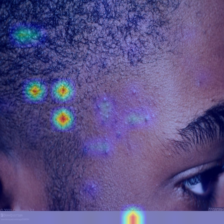
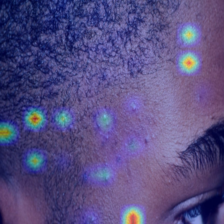
fix: crop watermark border from acne_1 sample image
Remove gray watermark area (© Galderma SA, DermQuest.com) from
bottom of acne_1.jpg for cleaner square thumbnail display.
Regenerate attention overlay and update cached explanation to
match the cropped image.

diff --git a/frontend/src/utils/sampleData.js b/frontend/src/utils/sampleData.js
@@ -36,7 +36,7 @@ export const conditionDescriptions = {
 
 // Pre-cached LLM explanations (auto-generated by scripts/generate_explanations.py)
 export const cachedExplanations = {
-  skin_disease_acne_1: 'The skin shows multiple raised bumps with reddish and yellowish discoloration distributed across the cheek and temple area, displaying the characteristic inflammatory appearance typical of acne lesions with uneven texture and clustering pattern. The Model attention highlighting concentrates on several distinct bright spots corresponding to individual lesions on the cheek and forehead, with the most intense red and yellow activation marking the most prominent acne bumps.',
+  skin_disease_acne_1: 'The skin displays numerous small, dark follicular lesions with a bumpy texture concentrated across the forehead and upper cheek area, appearing as clustered comedones with slight inflammation and discoloration against the lighter skin tone. The Model attention highlighting is concentrated on the forehead region and the area around the eyebrow, with the brightest yellow and cyan spots marking the densest clustering of acne lesions across the upper facial zone.',
   skin_disease_acne_2: 'The skin displays multiple small, raised red and pink papules scattered across the forehead with a slightly uneven texture characteristic of inflammatory acne lesions. The Model attention highlighting shows concentrated red and yellow focus on the forehead region and around the glabellar area, corresponding to the locations of the most prominent acne lesions visible in the original image.',
   skin_disease_eczema_1: 'The skin displays redness, swelling, and a slightly rough or irritated texture characteristic of eczema, with the affected area showing inflammation and discoloration across the visible surface. The Model attention highlighting concentrates on the upper portions of the affected area and the edges of the inflamed region, identifying the most prominent sites of redness and swelling as key diagnostic features.',
   skin_disease_eczema_2: 'The skin shows areas of redness, inflammation, and roughened texture with an irregular, patchy distribution pattern characteristic of eczematous changes. The Model attention highlighting is concentrated on the inflamed red patches and areas of visible skin irritation, particularly clustered around the affected zones on the leg.',
